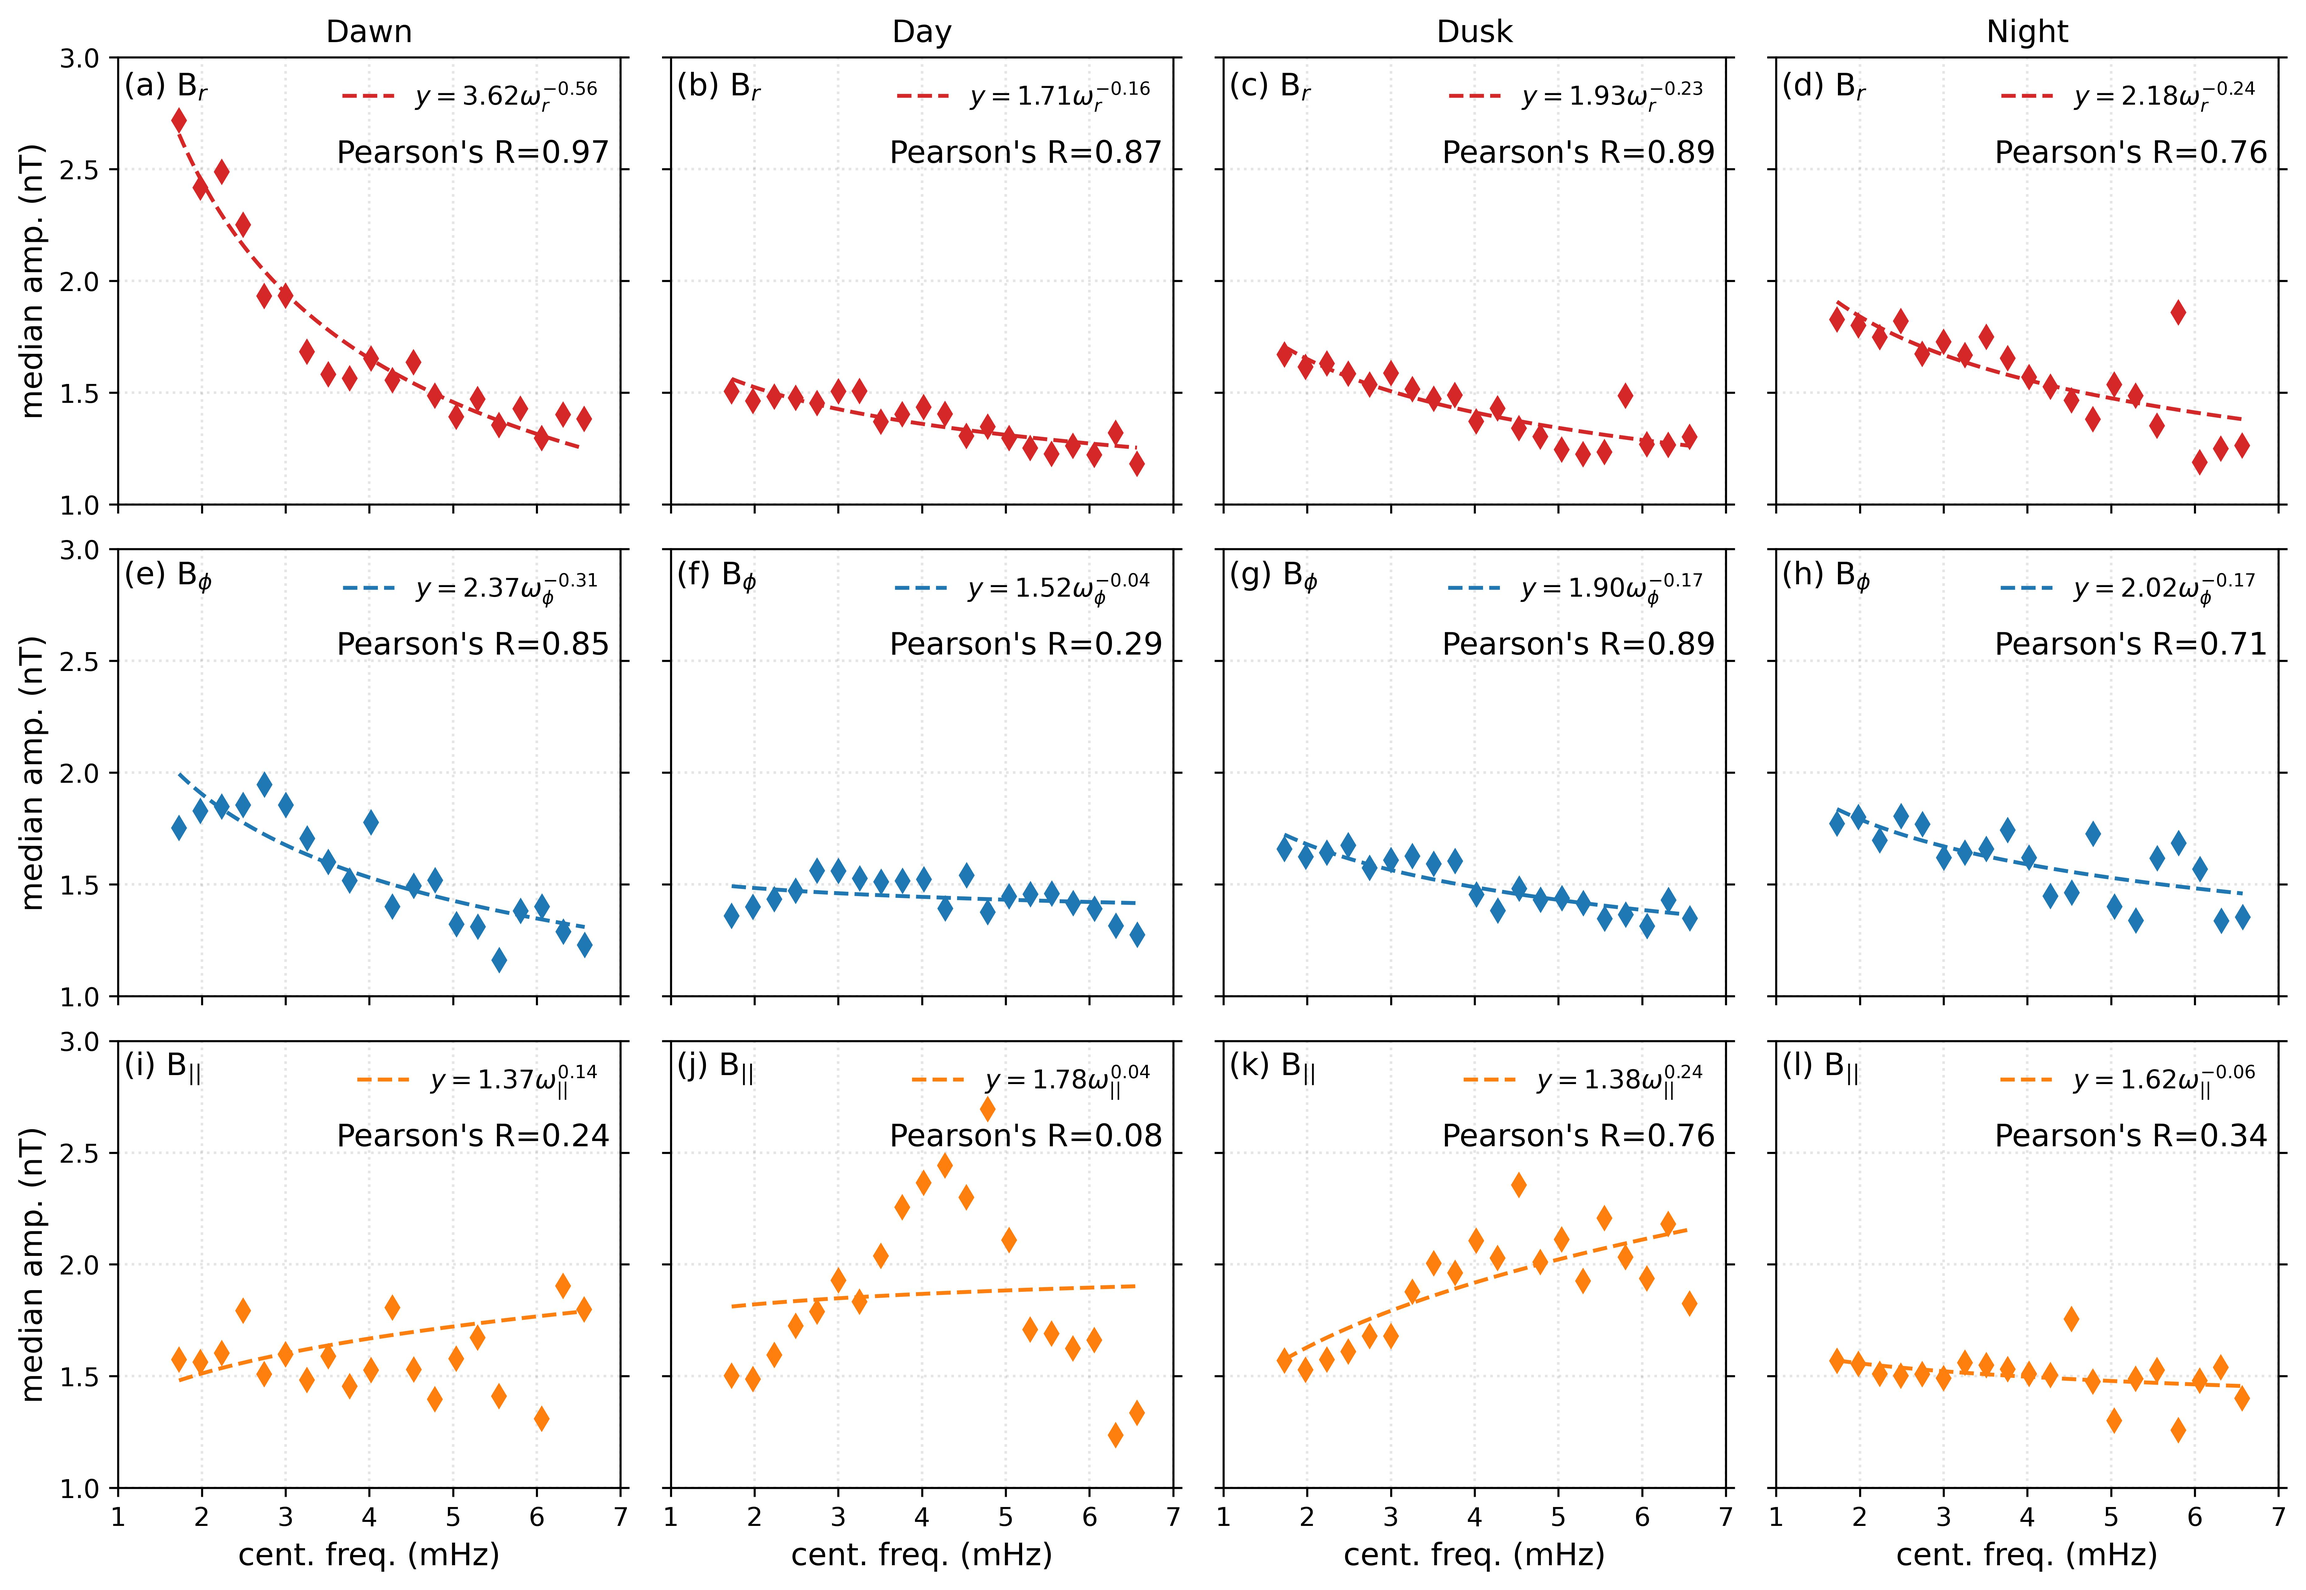
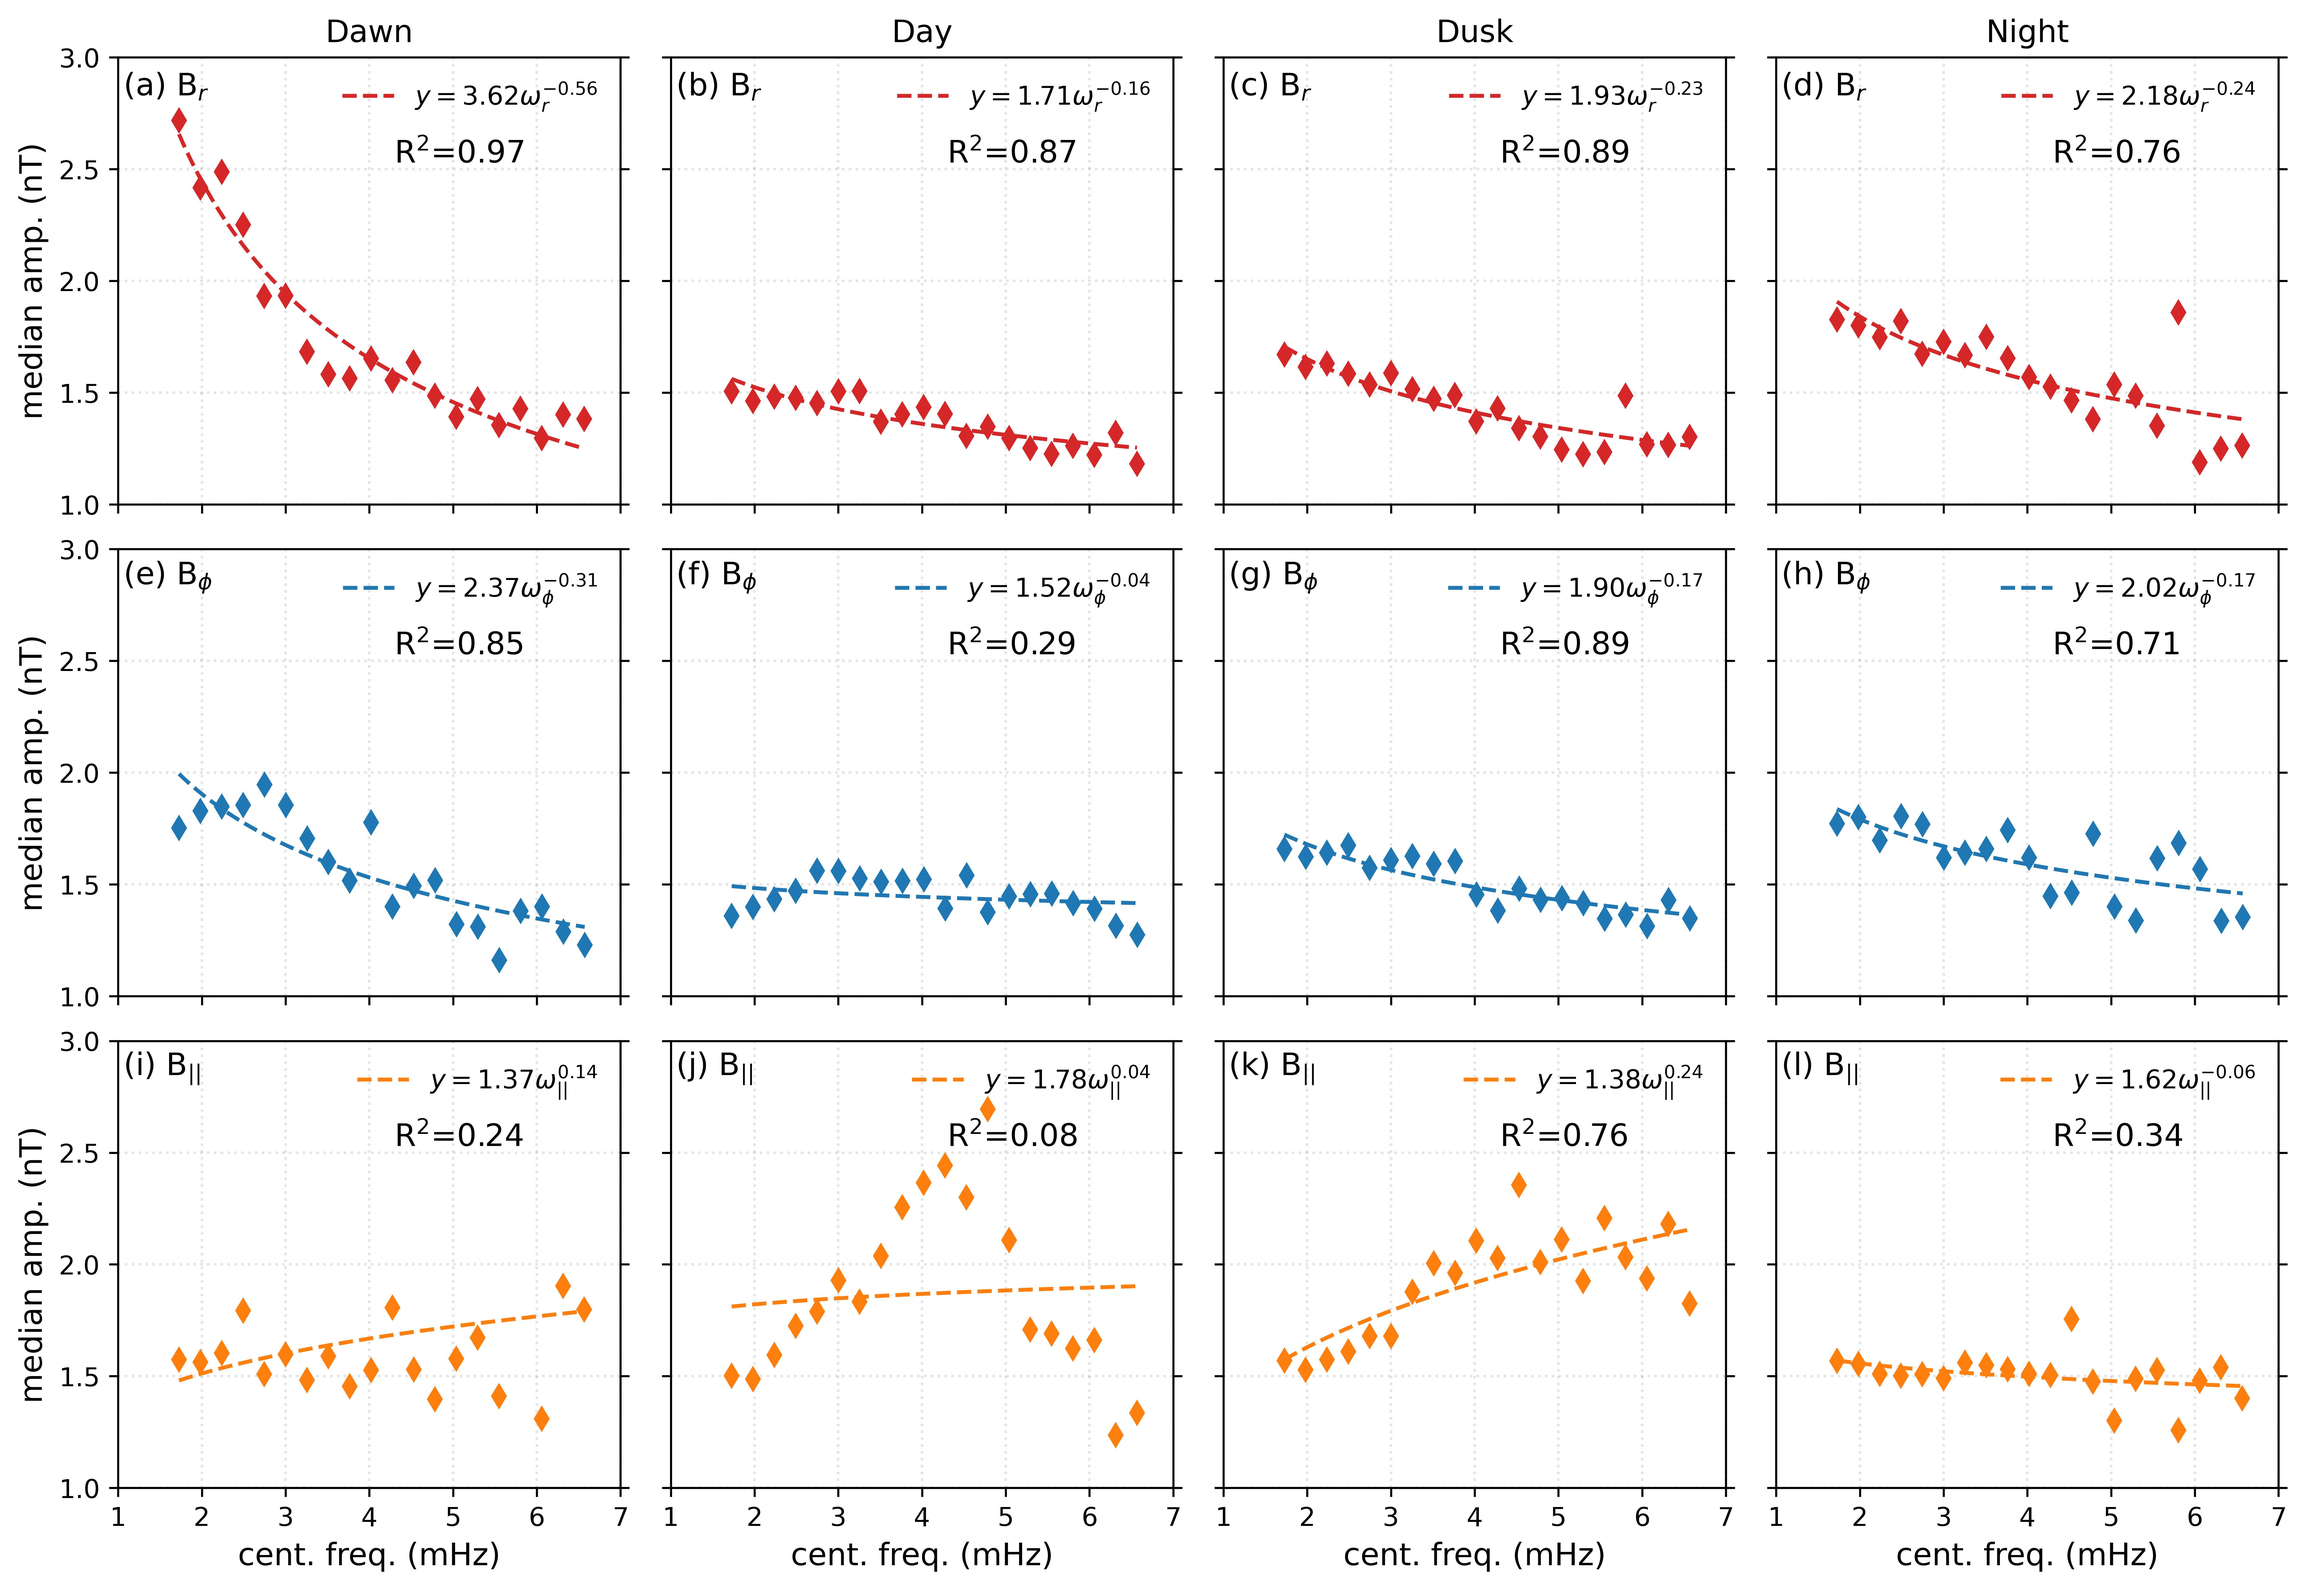
Restore published Figure 2 artifact

diff --git a/docs/DATA_PROVENANCE.md b/docs/DATA_PROVENANCE.md
@@ -136,8 +136,9 @@ calculated in four MLT sectors:
 Each component and sector is fitted with
 \(A(f)=c f^m\) by nonlinear least squares.
 
-The fit annotation is `Pearson's R`, calculated as
-`np.corrcoef(fitted_amplitude, median_amplitude)[0, 1]`.
+The figure-generating code labels the fit annotation as `Pearson's R`, calculated
+as `np.corrcoef(fitted_amplitude, median_amplitude)[0, 1]`. The tracked
+pre-generated Figure 2 retains the published figure's \(R^2\) annotation.
 
 ## Figure 3
 
@@ -159,8 +160,8 @@ three variables to lie in their corresponding middle-quartile intervals.
 
 Frequency binning, median amplitudes, power-law fitting, and the Pearson
 correlation calculation follow the Figure 2 definitions. The tracked
-pre-generated Figure 3 retains the published figure's \(R^2\) annotation. A
-rerun labels the calculated coefficient as `Pearson's R`.
+pre-generated Figure 3 likewise retains the published figure's \(R^2\)
+annotation. A rerun labels the calculated coefficient as `Pearson's R`.
 
 ## Figure 4 and correlation table
 

diff --git a/README.md b/README.md
@@ -141,9 +141,9 @@ Two conventions are important when interpreting the outputs:
   catalog then retains zero to three highest-amplitude peaks that pass both the
   significance and Pc5-frequency tests; absent ranks remain absent.
 - Figure-generating code reports `Pearson's R`, calculated between the fitted
-  amplitudes and the binned median amplitudes. The tracked pre-generated Figure
-  3 retains the published figure's \(R^2\) annotation so that the bundled image
-  matches the version of record.
+  amplitudes and the binned median amplitudes. The tracked pre-generated Figures
+  2 and 3 retain the published figures' \(R^2\) annotations so that the bundled
+  images match the version of record.
 - For Figure 3, each event is paired with every hourly OMNI record on the same UTC
   calendar date before the solar-wind quantiles and conditioned summaries are
   calculated. This date-level one-to-many expansion is part of the paper

diff --git a/outputs/README.md b/outputs/README.md
@@ -20,9 +20,10 @@ All figures are rendered in a temporary directory and replace the tracked files
 only after the complete set succeeds. `python scripts/reproduce.py figure N`
 regenerates a single numbered figure.
 
-The tracked `Fig03.jpg` preserves the published figure's \(R^2\) annotation.
-When Figure 3 is regenerated, the plotting code labels the calculated
-coefficient as `Pearson's R`; the numeric calculation is unchanged.
+The tracked `Fig02.jpg` and `Fig03.jpg` preserve the published figures'
+\(R^2\) annotations. When Figure 2 or Figure 3 is regenerated, the plotting code
+labels the calculated coefficient as `Pearson's R`; the numeric calculation is
+unchanged.
 
 In `manifest.json`, `inputs` records the public OMNI source URL and SHA-256 hash,
 and the singular `parameter_summary` record identifies `configs/paper.toml` by
